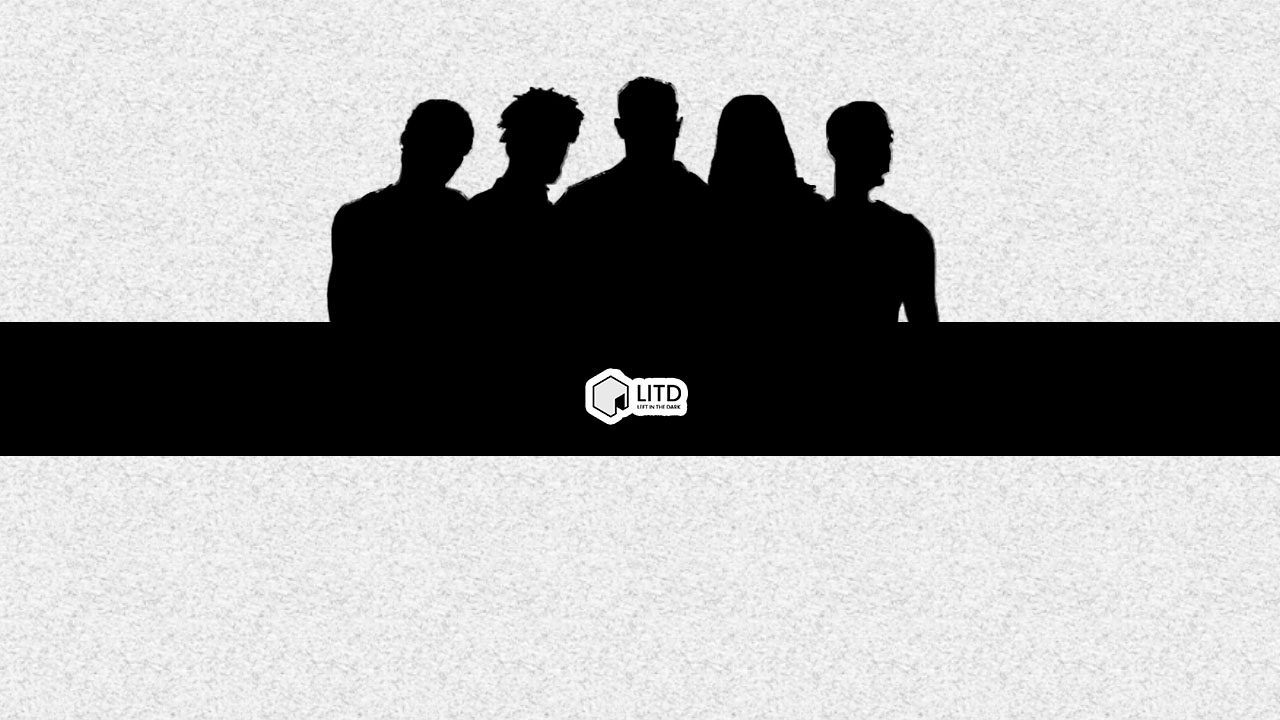
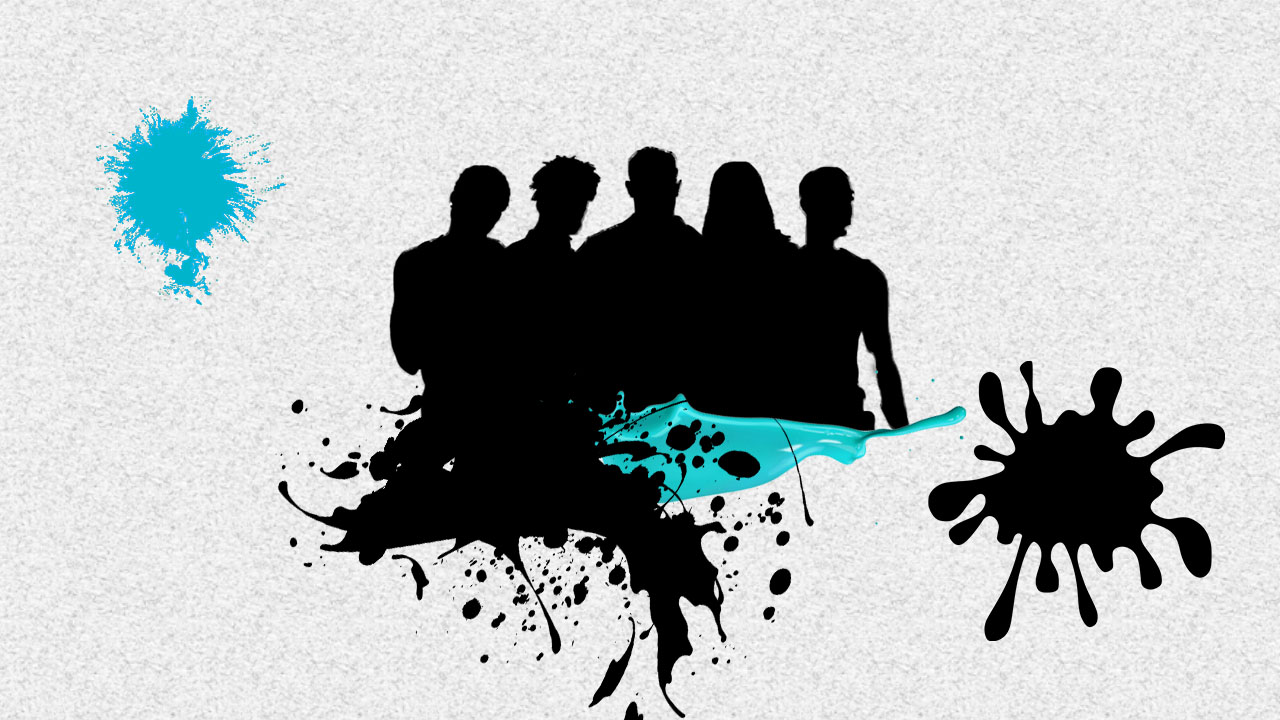
updated wallapaper

Changed region(s): [[0.0, 0.0917, 1.0, 1.0]]

diff --git a/overview.html b/overview.html
@@ -72,8 +72,9 @@
 <div id="captioned-gallery">
 	<figure class="slider">
 		<figure>
-				<img src="images/download-geniux-music-player.jpg" alt><figcaption>Get GeniuXMusic player for FREE</figcaption>
-		</figure>
+	<img src="images/Litd-family.jpg" alt>
+			
+</figure>
 		<figure>
 			<img src="images/Left-In-The-Dark-collaboration.jpg" alt>
 			<figcaption>Collaborate with us</figcaption>
